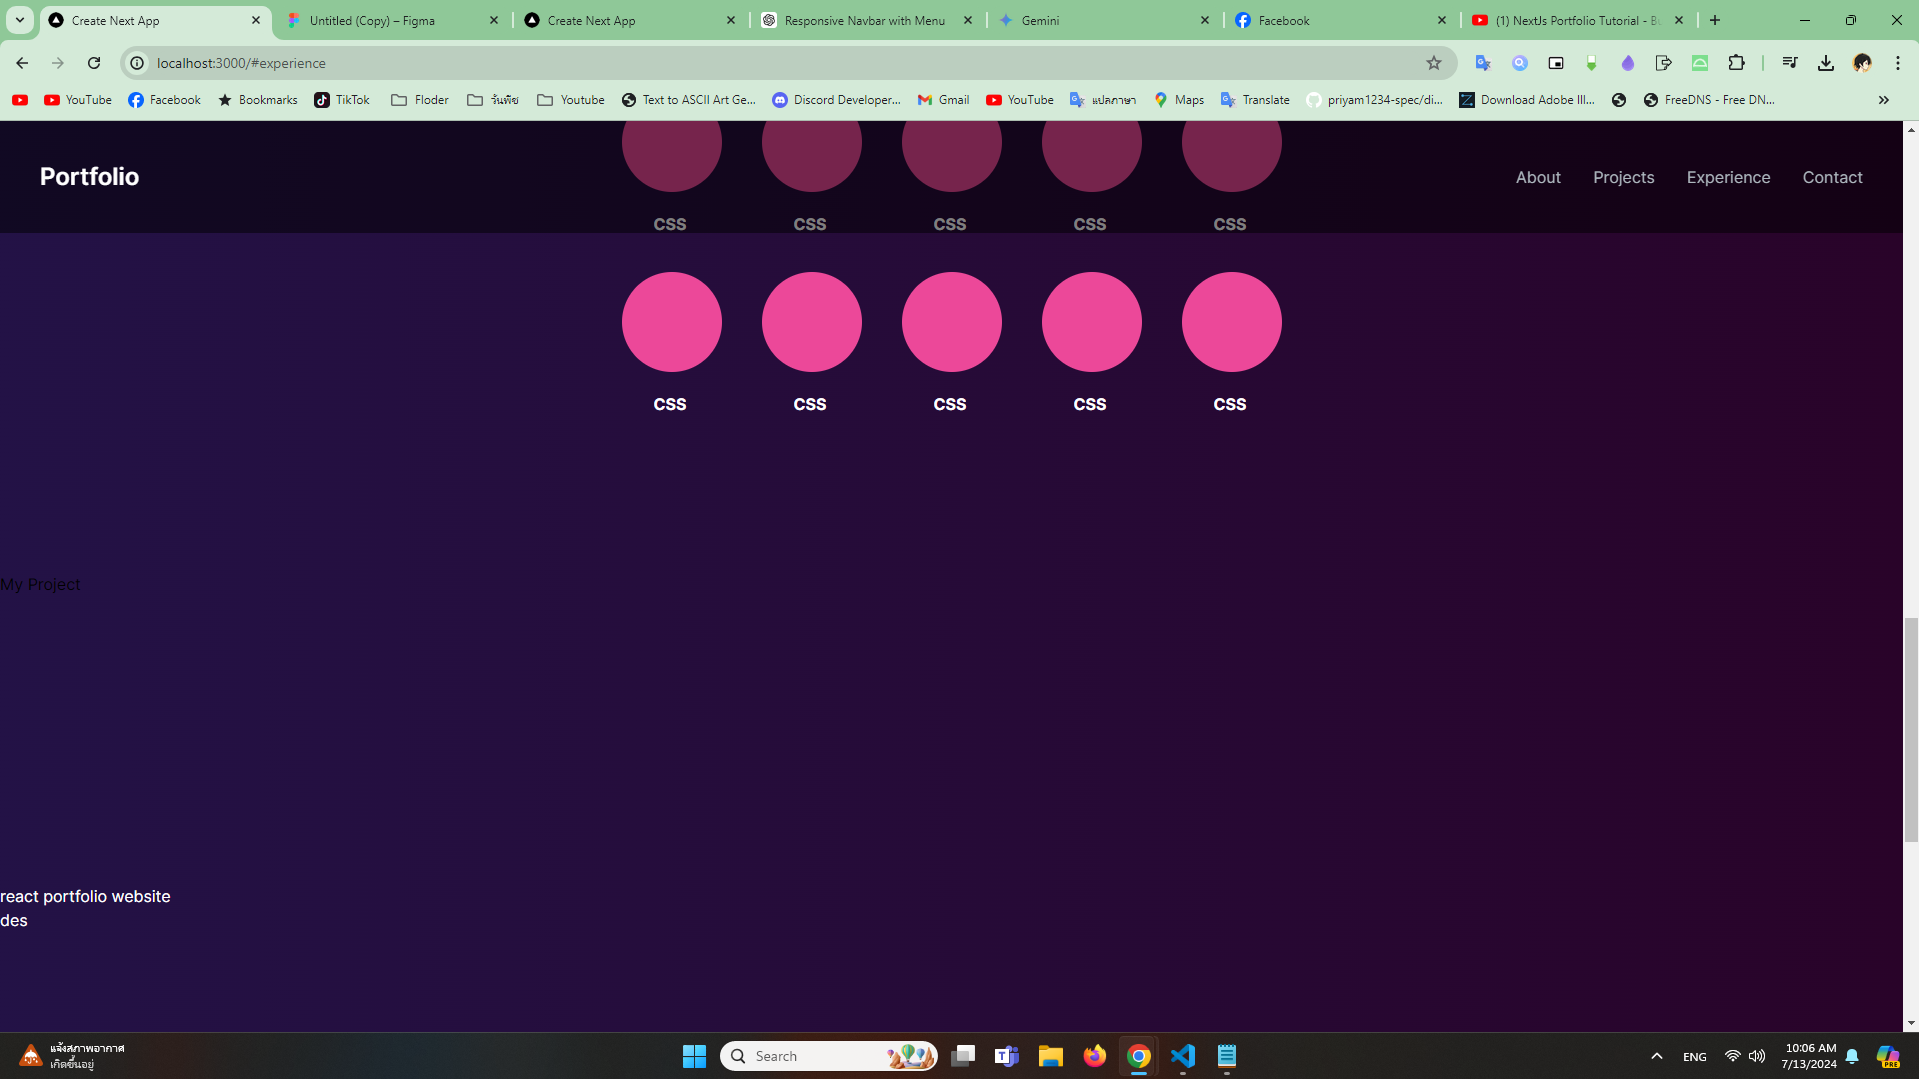
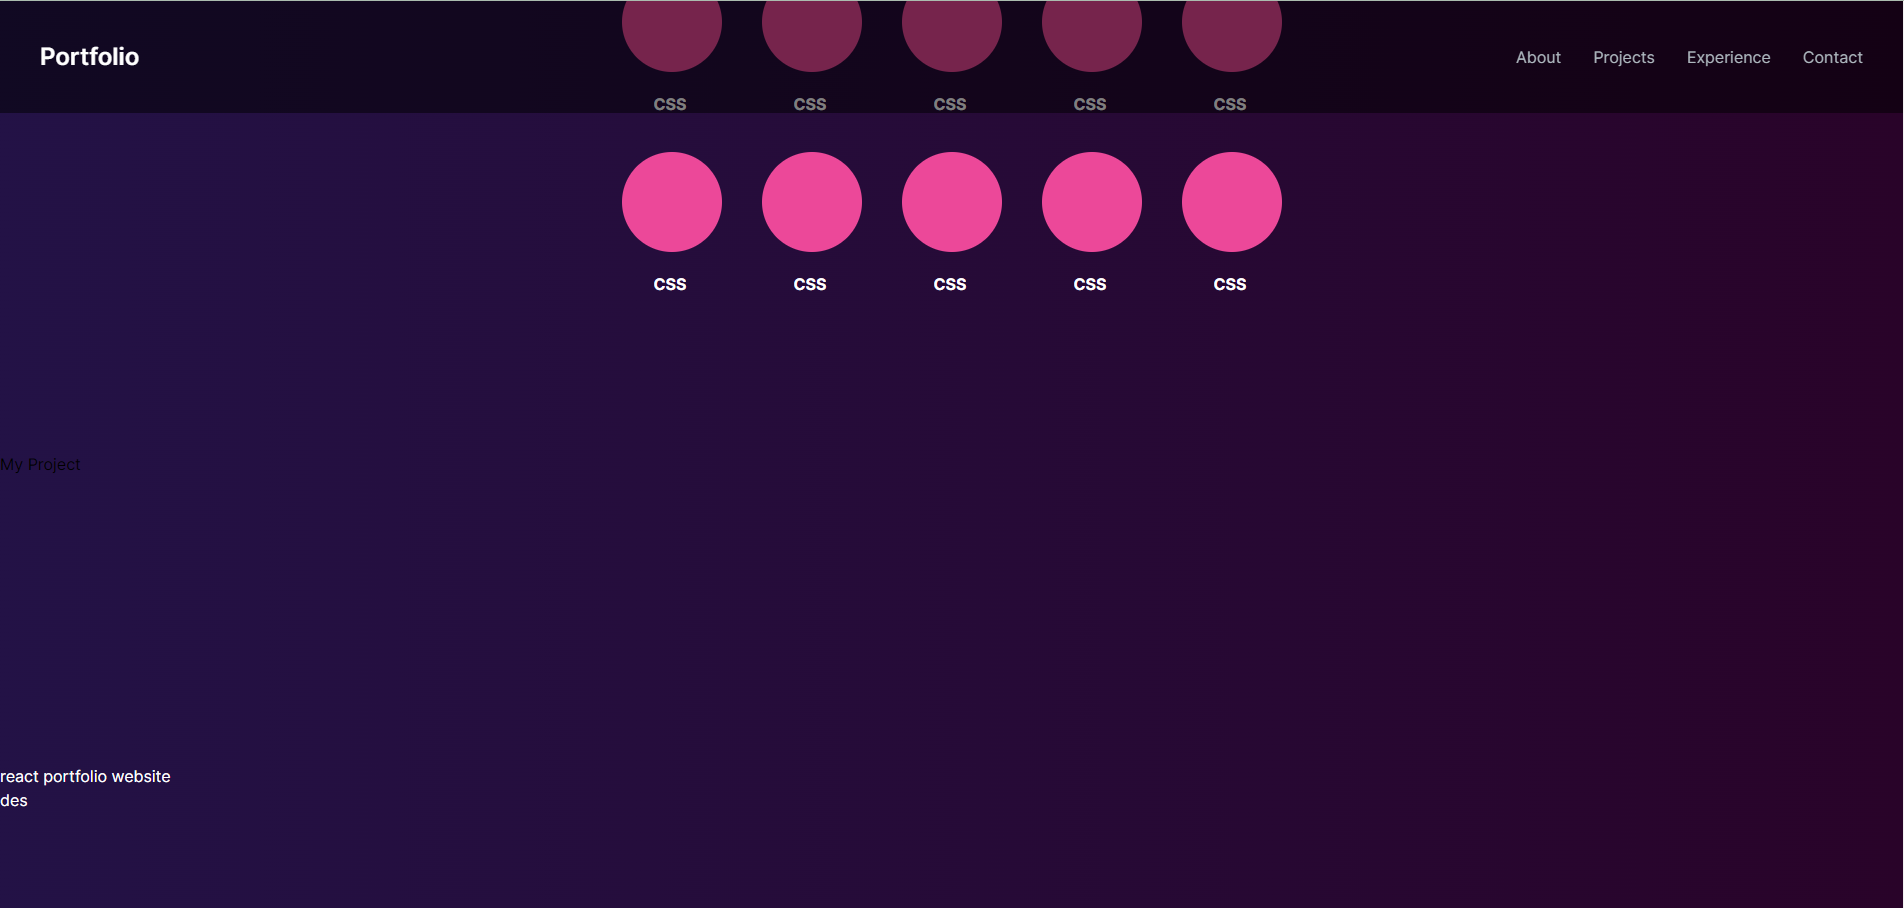
xxx

diff --git a/src/app/components/ProjectCard.tsx b/src/app/components/ProjectCard.tsx
@@ -1,6 +1,6 @@
-import React from 'react';
-import { CodeBracketIcon, EyeIcon } from '@heroicons/react/20/solid';
-import Link from 'next/link';
+"use client"
+import React, { useState } from 'react';
+import Modal from 'react-modal';
 
 interface ProjectCardProps {
   imgUrl: string;
@@ -9,34 +9,88 @@ interface ProjectCardProps {
 }
 
 const ProjectCard: React.FC<ProjectCardProps> = ({ imgUrl, title, description }) => {
-    return (
-      <Link href="https://google.com" passHref>
-        <div className="mb-8 bg-[#1f1f1f] rounded-3xl shadow-2xl overflow-hidden 
-        transform transition-all hover:scale-105 
-        duration-700 
-        hover:shadow-lg relative block md:w-[1/2]">
-          
-          <div
-            className="h-[150px] bg-cover bg-center relative rounded-t-3xl"
-            style={{ backgroundImage: `url(${imgUrl})` }}
-          >
-            <div
-              className="absolute inset-0 bg-gradient-to-t from-black via-transparent to-transparent opacity-75 flex items-center justify-center transition-opacity duration-500 hover:opacity-100 rounded-t-3xl"
-            >
-              <div className="flex space-x-4 opacity-0 group-hover:opacity-100 transition-opacity duration-500">
-                
-              </div>
+  const [isModalOpen, setIsModalOpen] = useState(false);
+
+  const openModal = () => {
+    setIsModalOpen(true);
+  };
+
+  const closeModal = () => {
+    setIsModalOpen(false);
+  };
+
+  // Truncate the description to a maximum of 15 characters
+  const truncatedDescription =
+    description.length > 36 ? `${description.slice(0, 38)}...` : description;
+
+  return (
+    <>
+      <div
+        onClick={openModal}
+        className="cursor-pointer mb-8 bg-[#1f1f1f] rounded-3xl shadow-2xl overflow-hidden transform transition-all hover:scale-105 duration-700 hover:shadow-lg relative block md:w-[1/2]"
+      >
+        <div
+          className="h-[150px] bg-cover bg-center relative rounded-t-3xl"
+          style={{ backgroundImage: `url(${imgUrl})` }}
+        >
+          <div className="absolute inset-0 bg-gradient-to-t from-black via-transparent to-transparent opacity-75 flex items-center justify-center transition-opacity duration-500 hover:opacity-100 rounded-t-3xl">
+            <div className="flex space-x-4 opacity-0 group-hover:opacity-100 transition-opacity duration-500">
+              {/* Add any icons or content here */}
             </div>
           </div>
-          <div className="p-4 md:p-6 relative z-10 bg-gradient-to-r from-purple-500  to-red-500 rounded-b-3xl shadow-lg">
-            <h3 className="text-white text-xl md:text-2xl font-semibold mb-2">{title}</h3>
-            <p className="text-gray-200 text-sm">{description}</p>
-          </div>
-          <div className="absolute inset-0 bg-gradient-to-r from-purple-500 via-pink-500 to-red-500 opacity-0 hover:opacity-50 transition-opacity duration-500 rounded-3xl"></div>
         </div>
-      </Link>
-    );
-  }
-  
+        <div className="p-4 md:p-6 relative z-10 bg-gradient-to-r from-purple-500 to-red-500 rounded-b-3xl shadow-lg">
+          <h3 className="text-white text-xl md:text-2xl font-semibold mb-2">{title}</h3>
+          <p className="text-gray-200 text-sm">{truncatedDescription}</p>
+        </div>
+        <div className="absolute inset-0 bg-gradient-to-r from-purple-500 via-pink-500 to-red-500 opacity-0 hover:opacity-50 transition-opacity duration-500 rounded-3xl"></div>
+      </div>
+
+      <Modal
+        isOpen={isModalOpen}
+        onRequestClose={closeModal}
+        contentLabel="Project Details"
+        className="fixed inset-0 flex items-center justify-center bg-black bg-opacity-75"
+        overlayClassName="fixed inset-0 bg-black bg-opacity-50"
+      >
+        <div className="bg-white rounded-lg shadow-lg max-w-3xl mx-auto p-6 relative">
+          <button
+            onClick={closeModal}
+            className="absolute top-4 right-4 text-gray-500 hover:text-gray-800 transition duration-300"
+          >
+            <svg
+              xmlns="http://www.w3.org/2000/svg"
+              className="h-6 w-6"
+              fill="none"
+              viewBox="0 0 24 24"
+              stroke="currentColor"
+            >
+              <path strokeLinecap="round" strokeLinejoin="round" strokeWidth={2} d="M6 18L18 6M6 6l12 12" />
+            </svg>
+          </button>
+          <img src={imgUrl} alt={title} className="w-full rounded-lg mb-4 shadow-md" />
+          <h2 className="text-3xl font-bold mb-4">{title}</h2>
+          <p className="text-gray-800 text-lg mb-6">{description}</p>
+          <div className="flex justify-between items-center">
+            <a
+              href="#"
+              className="px-4 py-2 bg-purple-500 text-white rounded-lg hover:bg-purple-600 transition-colors duration-300 transform hover:scale-105"
+              target="_blank"
+              rel="noopener noreferrer"
+            >
+              Visit Project
+            </a>
+            <button
+              onClick={closeModal}
+              className="px-4 py-2 bg-gray-200 text-gray-800 rounded-lg hover:bg-gray-300 transition-colors duration-300 transform hover:scale-105"
+            >
+              Close
+            </button>
+          </div>
+        </div>
+      </Modal>
+    </>
+  );
+};
 
 export default ProjectCard;

diff --git a/src/app/components/ProjectSection.tsx b/src/app/components/ProjectSection.tsx
@@ -4,60 +4,50 @@ import ProjectCard from './ProjectCard';
 const ProjectsData = [
   {
     id: 1,
-    title: "React Portfolio Website",
-    description: "Description 1",
-    image: "/images/p1.png",
+    title: "Petchy Bank (Python)",
+    description: "Pecthy Bank is a program designed to allow users to manage their personal finances conveniently and securely. It has main functions such as login registration, deposit and withdrawal transactions, as well as detailed balance checking and transaction history.",
+    image: "/report/petchybank1.png",
     tag: ["All", "Web"]
   },
   {
     id: 2,
-    title: "React Portfolio Website",
-    description: "Description 2",
-    image: "/images/p2.png",
+    title: "Petchy Bank (GUI)",
+    description: "Pecthy Bank is a program designed to allow users to manage their personal finances conveniently and securely. It has main functions such as login registration, deposit and withdrawal transactions, as well as detailed balance checking and transaction history.",
+    image: "/report/petchybank.png",
     tag: ["All", "Web"]
   },
   {
     id: 3,
-    title: "React Portfolio Website",
-    description: "Description 3",
-    image: "/images/p3.png",
+    title: "Petchy Hotel",
+    description: "Petchy Hotel is a program that helps manage hotel rooms. The program will check the customer's date of birth. and check age If the customer is under 18 years of age, they will not be able to make a reservation. and must be 18 years of age or older in order to reserve a room in multiple rates as desired by the customer.",
+    image: "/report/petchybank.png",
     tag: ["All", "Web"]
   },
   {
     id: 4,
-    title: "React Portfolio Website",
-    description: "Description 4",
-    image: "/images/p4.png",
+    title: "Dream My Libary",
+    description: "The Dream My Libary program is a program that helps manage book borrowing in the library. This program checks member information and the member's book borrowing history. You can check the status of the book whether it is ready to lend or not. They can also set the borrowing period and manage the return of books efficiently. So that members can borrow books easily and quickly.",
+
+    image: "/report/DreamyLibary.png",
     tag: ["All", "Web"]
   },
   {
     id: 5,
-    title: "React Portfolio Website",
-    description: "Description 5",
-    image: "/images/p5.png",
+    title: "Koala Food Delivery",
+    description: "Koala Food Delivery program is a program that helps users order healthy food easily and conveniently. This program offers a variety of healthy food menus to choose from. With clear nutritional information Users can choose the menu according to their own needs and health restrictions. You can also track your food order history. and receive advice on choosing the right foods for maintaining health and losing weight.",
+
+    image: "/report/koala.png",
     tag: ["All", "Web"]
   },
   {
     id: 6,
-    title: "React Portfolio Website",
-    description: "Description 5",
-    image: "/images/p5.png",
+    title: "Shiba dog farm (UX/UI)",
+    description: "Shiba dog farm is a program UX/UI design by figma that allows you to manage a dog farm that sells puppies of various breeds and ages. along with selling animal food The program can store and track information about each dog on the farm, such as name, age, breed, and health information. Including vaccinations and annual health examinations. It can also track mating. Birth of puppies, selling of dogs and efficient management of pet food stocks. In order to provide systematic and complete care and management of the farm.",
+
+    image: "/report/shiba.png",
     tag: ["All", "Web"]
   },
-  {
-    id: 7,
-    title: "React Portfolio Website",
-    description: "Description 5",
-    image: "/images/p5.png",
-    tag: ["All", "Web"]
-  },
-  {
-    id: 8,
-    title: "React Portfolio Website",
-    description: "Description 5",
-    image: "/images/p5.png",
-    tag: ["All", "Web"]
-  }
+  
 ];
 
 const ProjectSection = () => {

diff --git a/src/app/components/AboutSection.tsx b/src/app/components/AboutSection.tsx
@@ -12,7 +12,7 @@ const AboutSection = () => {
       <div className="flex justify-between">
         <div className="w-[500px] h-[500px] rounded-full bg-transparent relative overflow-hidden">
           <img
-            src="/images/heroimage.png"
+            src="/images/heroimage1.png"
             alt="Description of the image"
             className="absolute transform -translate-x-1/2 -translate-y-1/2 top-1/2 left-1/2 hover:scale-110 transition-transform duration-500"
             width={300}
@@ -48,7 +48,7 @@ const AboutSection = () => {
 
           <div className="py-14">
             <p className="text-white">Information Technology and Innovation - Computer Science</p>
-            <p className="text-white mt-2">GPA: 3.50</p>
+            <p className="text-white mt-2">GPA: 3.24</p>
           </div>
         </div>
 

diff --git a/src/app/components/Navbar.tsx b/src/app/components/Navbar.tsx
@@ -29,7 +29,7 @@ const Navbar = () => {
   return (
     <nav className="fixed top-0 left-0 right-0 z-10 bg-black bg-opacity-50  ">
       <div className="flex flex-wrap items-center justify-between mx-auto p-[40px]">
-        <Link href="/" className="text-5xl md:text-3xl lg:text-2xl text-white font-semibold">
+        <Link href="/" className="text-2xl md:text-3xl lg:text-5xl text-white font-semibold">
           Portfolio
         </Link>
 
